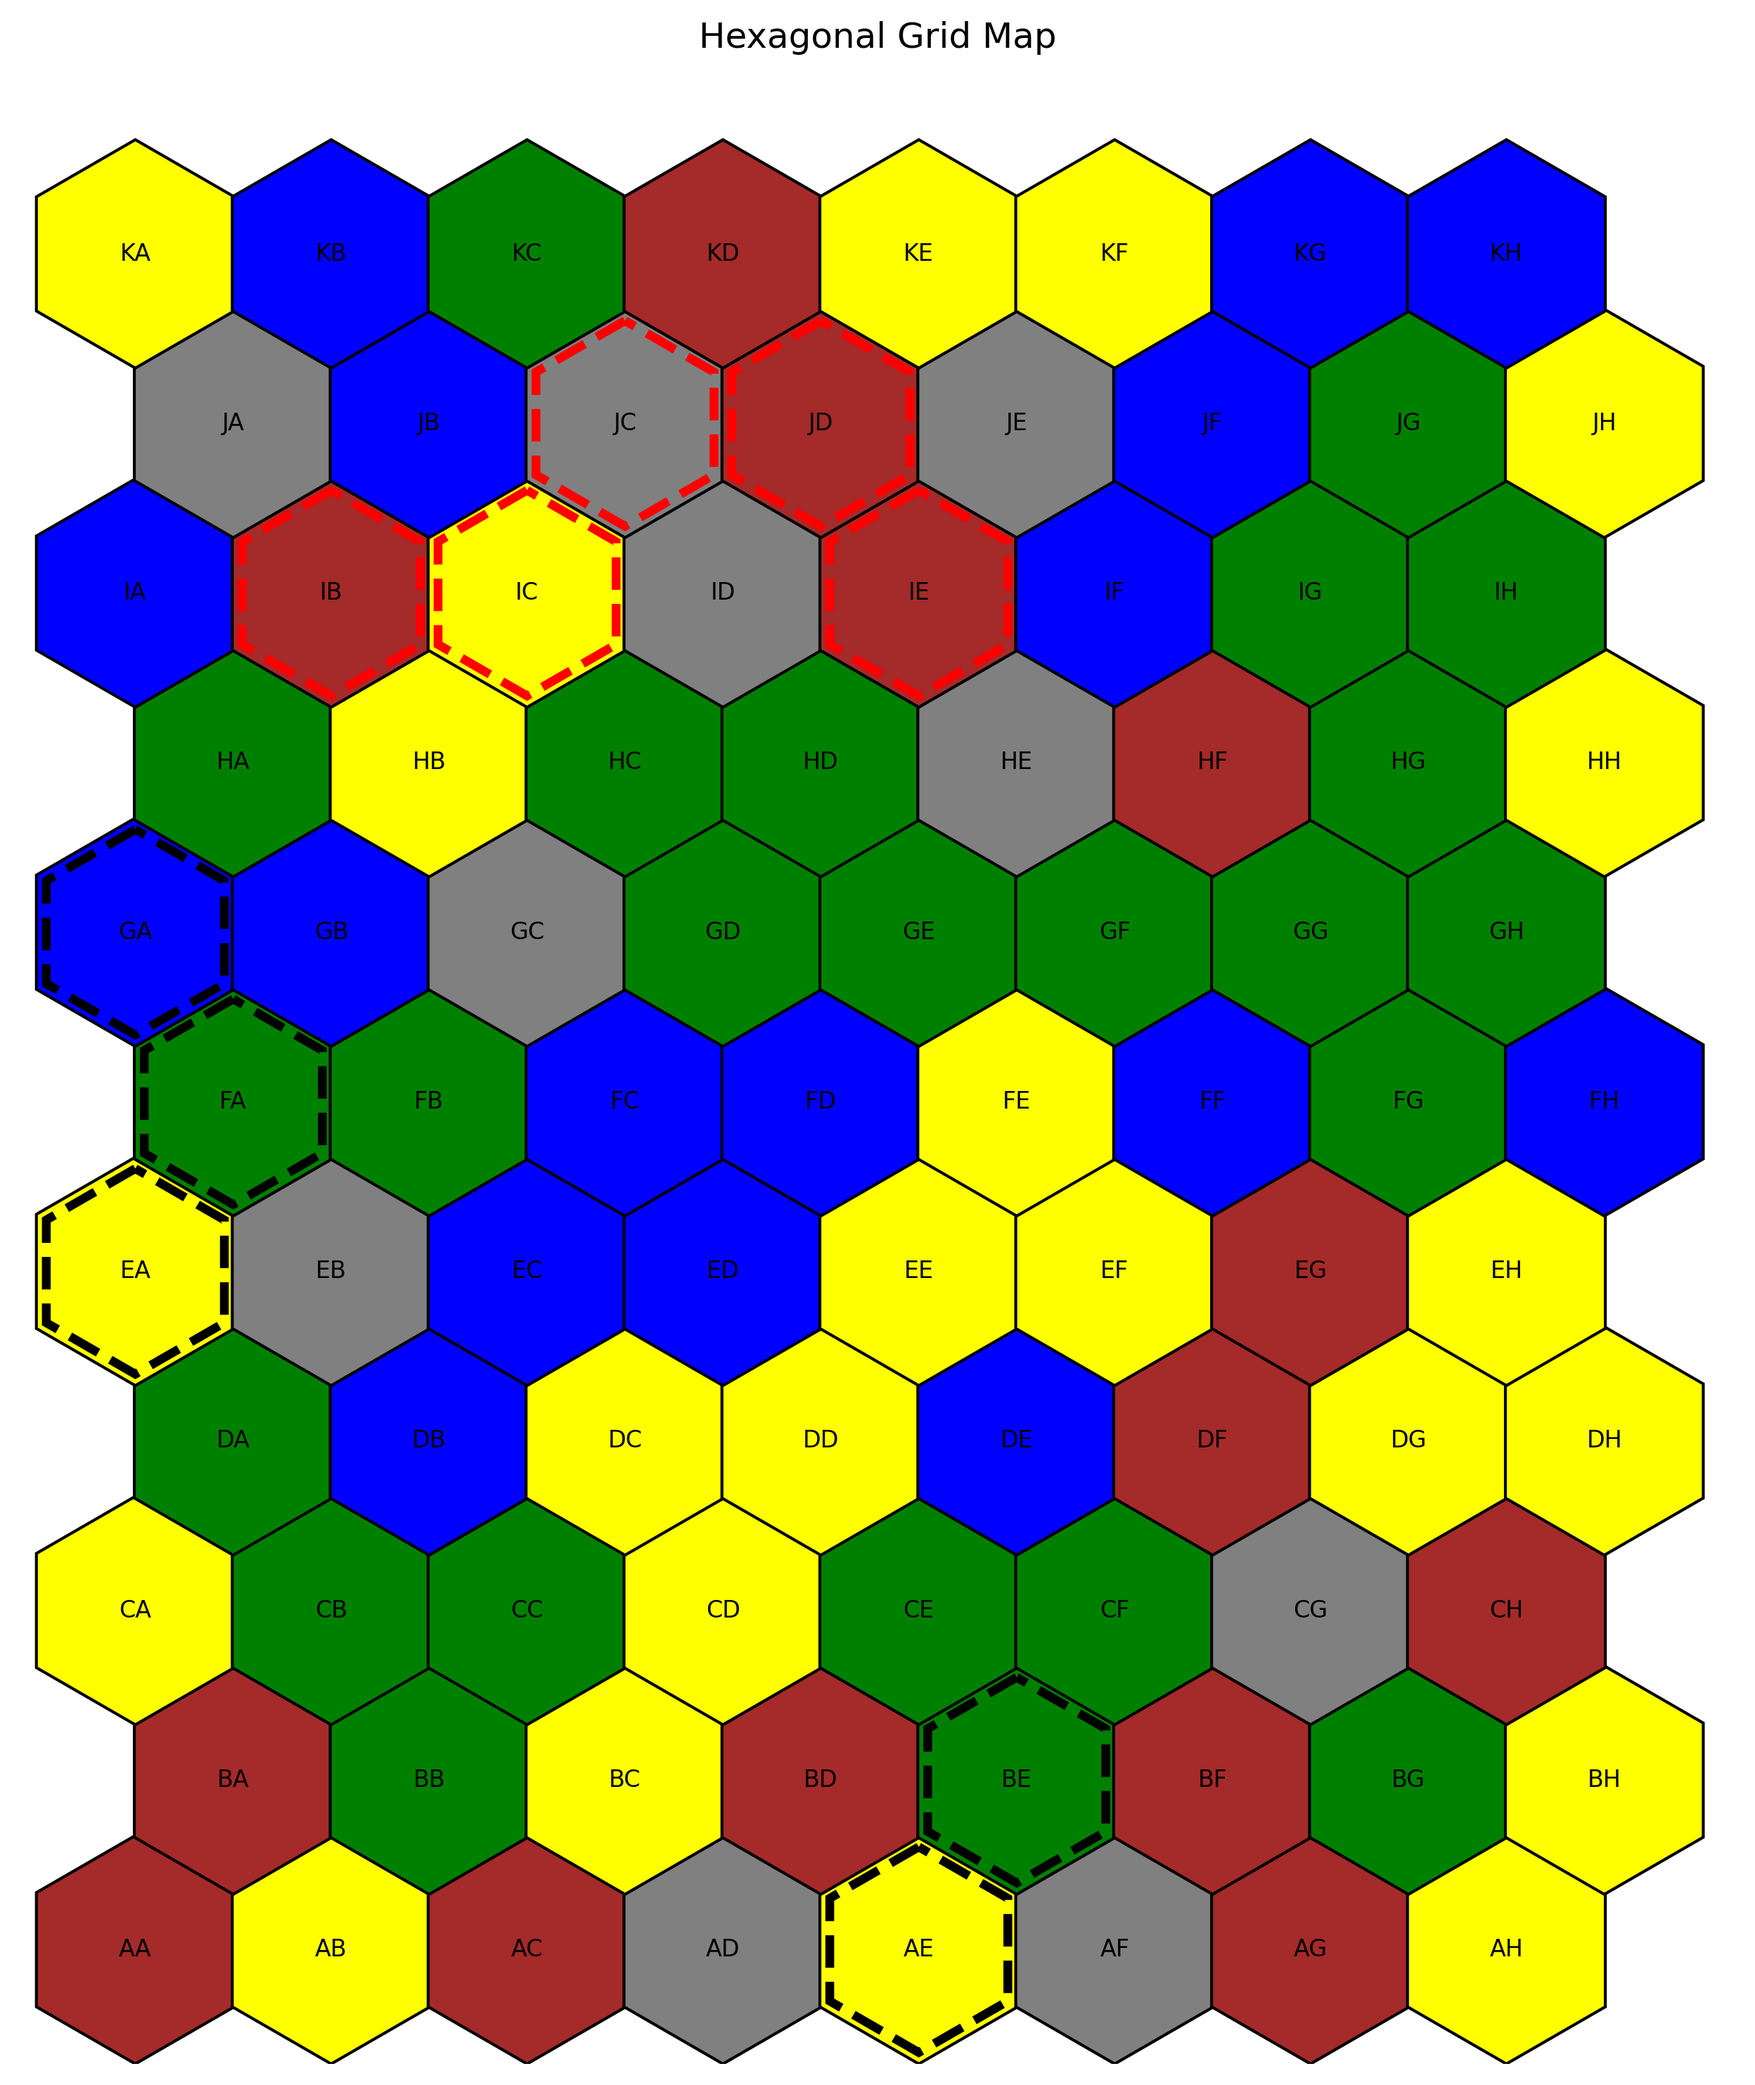
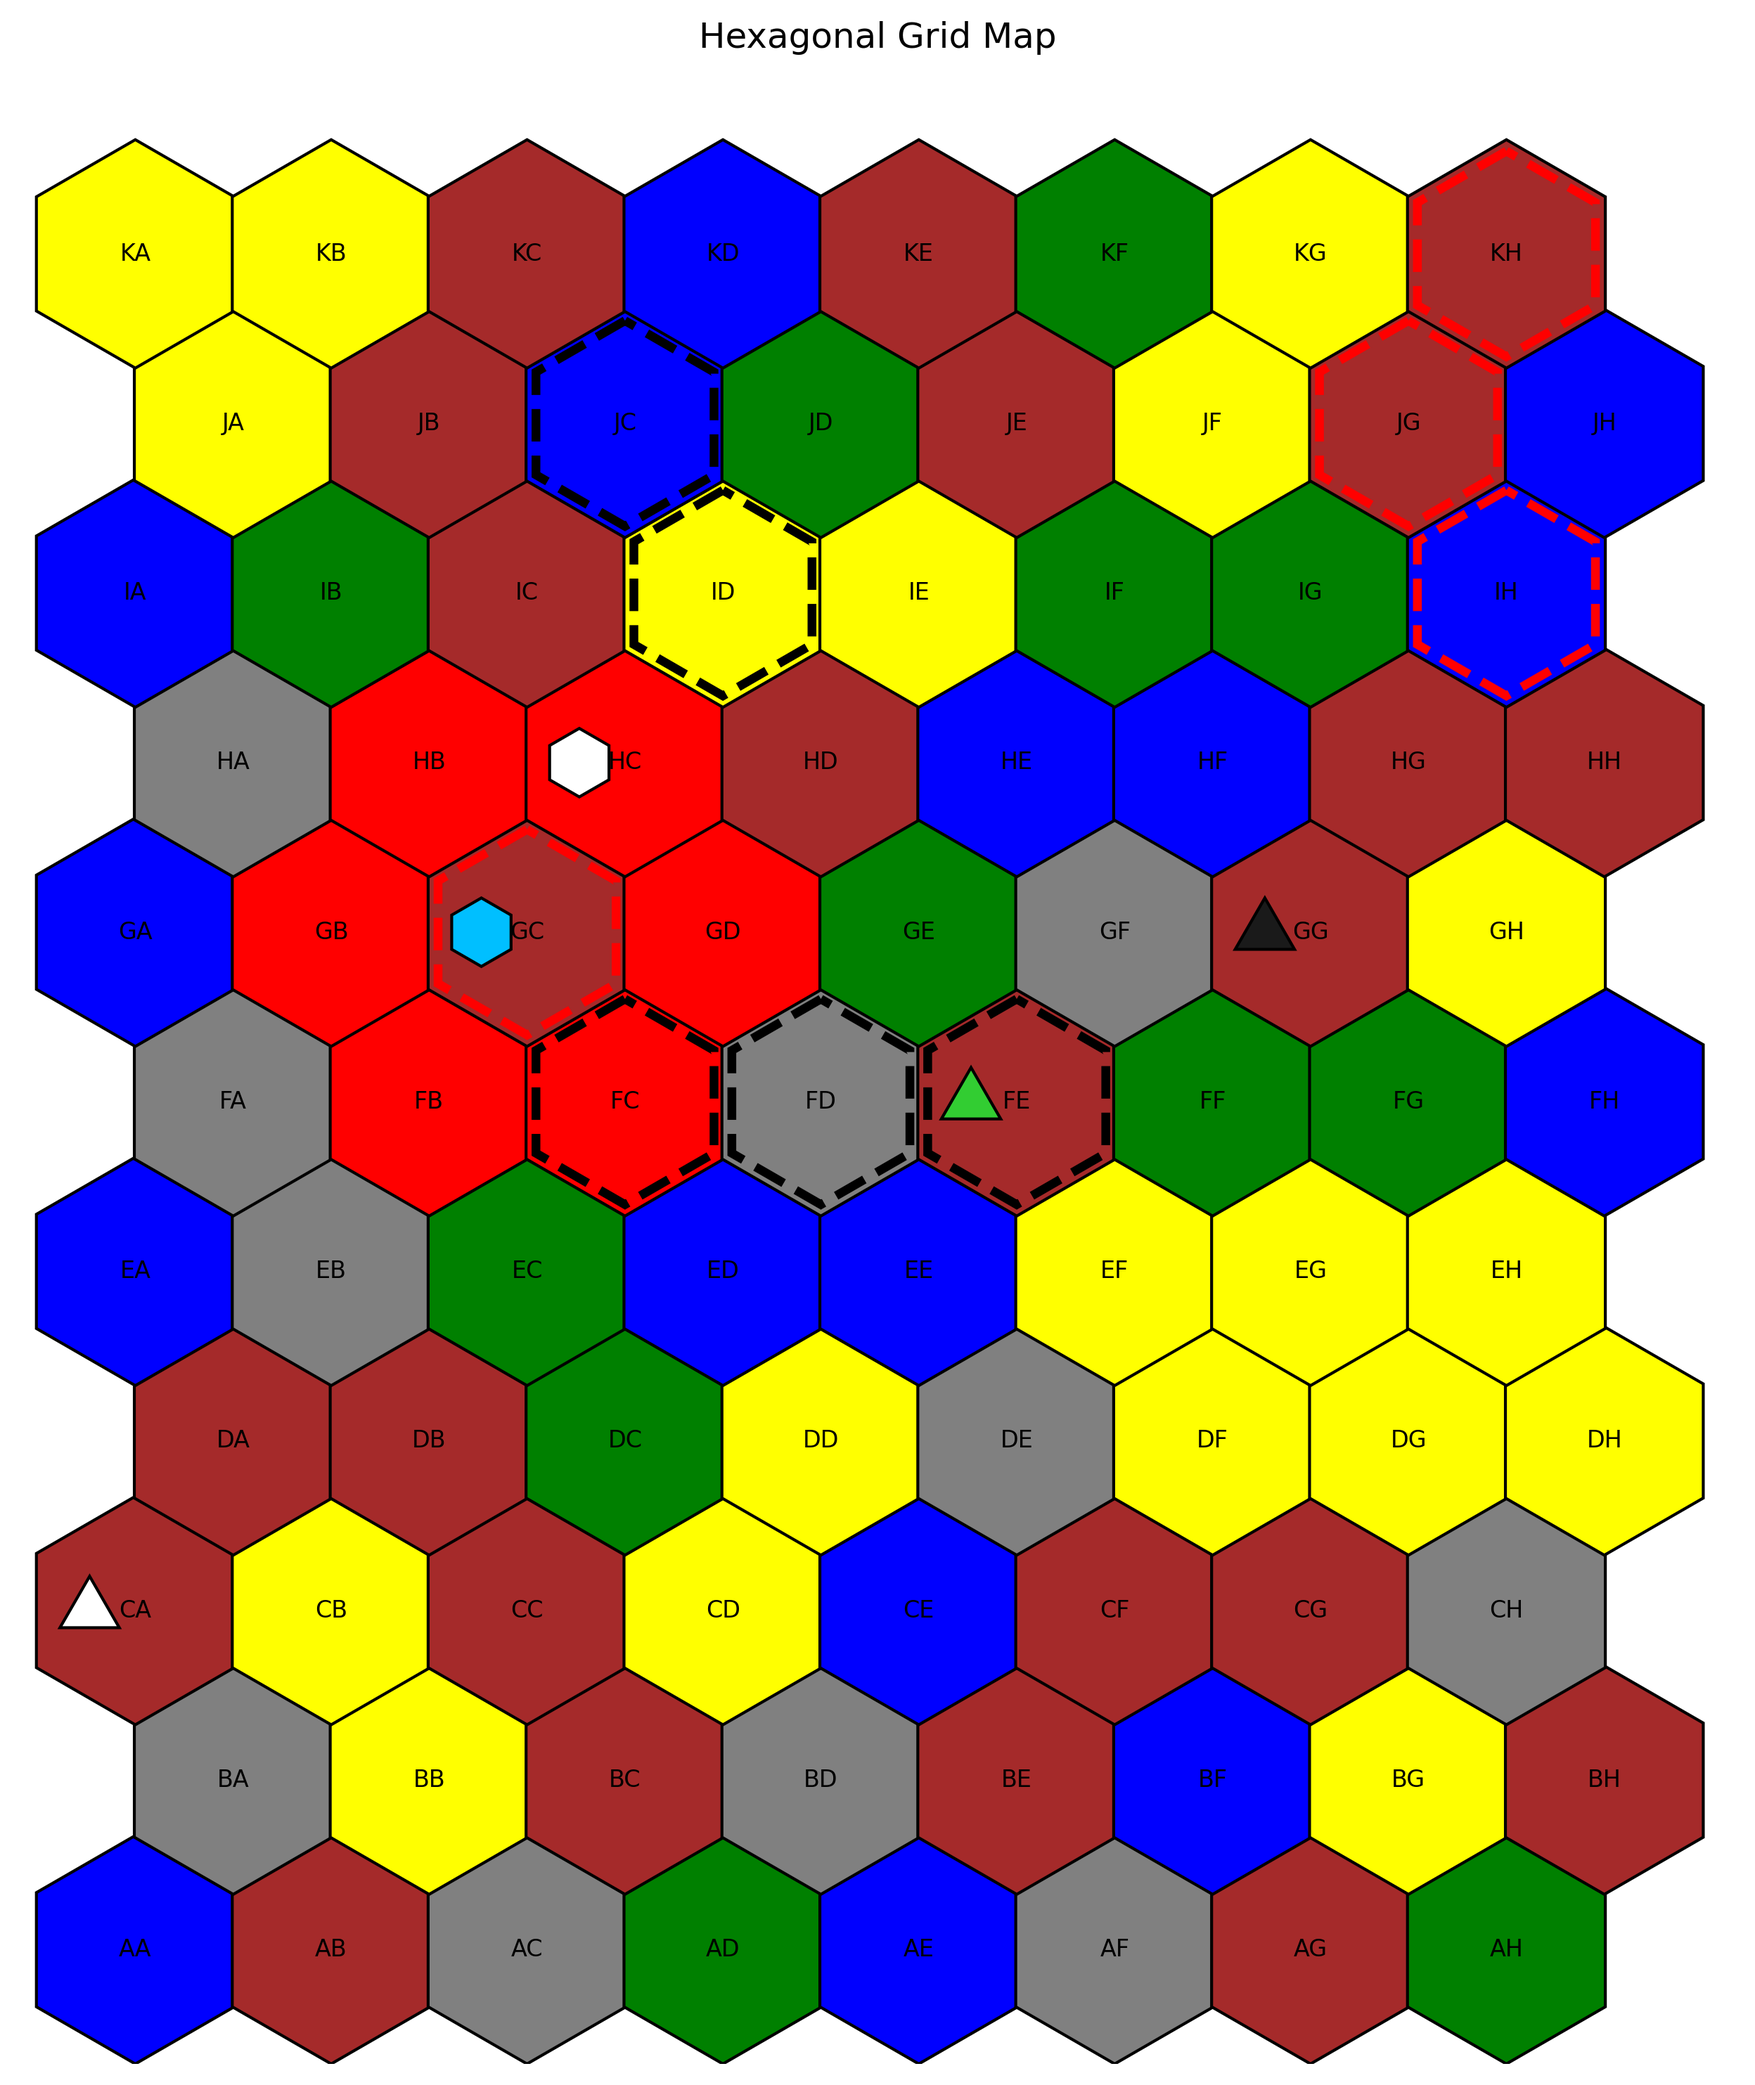
Lots of updates; added poetry to the devuser manually, added a visualize make target and phonys, and updated so that structures are now included

diff --git a/container/visualize_board.py b/container/visualize_board.py
@@ -1,15 +1,14 @@
-import networkx as nx
-from utils.graph_generate_landscape import (
-    generate_hexagonal_grid_graph, 
-)
-from utils.graph_generate_random_area import ( 
-    add_connected_area_attribute,
-)
-
 import matplotlib.pyplot as plt
-import seaborn as sns
+import networkx as nx
 import numpy as np
+import random
+import seaborn as sns
+
 from matplotlib.patches import RegularPolygon
+from utils.graph_generate_landscape import generate_hexagonal_grid_graph
+from utils.graph_generate_random_area import add_connected_area_attribute
+from utils.graph_utils import enrich_node_attributes
+
 
 def calculate_hex_coordinates(row, col, hex_size):
     """Calculate the x, y coordinates for a hexagon in the grid."""
@@ -71,33 +70,153 @@ def plot_hexagonal_grid(G, rows, cols):
         row, col = node
         x, y = calculate_hex_coordinates(row, col, hex_size)
         color = get_node_color(data, color_map)
-        
+
+        filterattr = 'neighbor_standing_stone_blue'
+        if data.get(filterattr):
+            print(f"Coloring node {node} red because: {filterattr}")
+            color = 'red'
+
         hex_patch = create_hex_patch(x, y, hex_size, color)
         ax.add_patch(hex_patch)
         
         if data.get('is_Bear') or data.get('is_Cougar'):
             inner_hex = create_inner_hex_patch(x, y, hex_size, data.get('is_Bear'))
             ax.add_patch(inner_hex)
-        
+        # Check for structures and add them to the plot
         add_node_id_text(ax, x, y, row, col)
+        structure_patch = add_structures_to_plot(ax, data, x, y, hex_size)
+        if structure_patch:
+            ax.add_patch(structure_patch)
 
     plt.title('Hexagonal Grid Map')
     plt.tight_layout()
     plt.savefig('hexagonal_grid_map.png', dpi=300, bbox_inches='tight')
     plt.close()
 
-if __name__ == "__main__":
-    # Generate an 11x8 hexagonal grid graph
-    rows, cols = 11, 8
+def add_structures_to_plot(ax, data, x, y, hex_size):
+    """Add structures (standing stones or abandoned shacks) to the plot."""
+    for structure in ['standing_stone', 'abandoned_shack']:
+        for color in ['blue', 'green', 'white', 'black']:
+            structure_key = f"{structure}_{color}"
+            if data.get(structure_key):
+                structure_patch = create_structure_patch(structure, x, y, hex_size, color)
+                ax.add_patch(structure_patch)
+                return  # Only one structure per tile
+
+def create_structure_patch(structure, x, y, hex_size, color):
+    """Create a patch for a structure (standing stone or abandoned shack)."""
+    print(f"Created a structure {structure} of color {color} at {x}, {y}")
+    # Displace the structure to the left of the node ID label
+    displaced_x = x - hex_size * 0.4  # Adjust this value as needed
+    color_map = {
+        'blue': '#00BFFF',    # Light Blue
+        'green': '#32CD32',   # Lime Green
+        'white': '#FFFFFF',   # White (unchanged)
+        'black': '#1A1A1A'    # Dark Grey (almost black)
+    }
+    color = color_map.get(color, color)  # Use mapped color if available, else use original
+    if structure == 'standing_stone':
+        return RegularPolygon((displaced_x, y), numVertices=6, radius=hex_size*0.3,
+                              orientation=0, facecolor=color, edgecolor='black')
+    else:  # abandoned_shack
+        return RegularPolygon((displaced_x, y), numVertices=3, radius=hex_size*0.3,
+                              orientation=0, facecolor=color, edgecolor='black')
+       
+
+
+def generate_structure_combinations():
+    structures = ['standing_stone', 'abandoned_shack']
+    colors = ['blue', 'green', 'white', 'black']
+    return [f"{s}_{c}" for s in structures for c in colors]
+
+def select_random_structures(all_structures, min_structures, max_structures):
+    num_structures = random.randint(min_structures, max_structures)
+    return random.sample(all_structures, num_structures)
+
+def find_empty_location(G, rows, cols, all_structures):
+    def try_location():
+        row = random.randint(0, rows - 1)
+        col = random.randint(0, cols - 1)
+        print(all_structures)
+        if not any(G.nodes[(row, col)].get(s, False) for s in all_structures):
+            return row, col
+        return None
+
+    result = try_location()
+    if result:
+        return result
+    else:
+        return find_empty_location(G, rows, cols, all_structures)
+
+def add_structure_to_graph(G, structure, location):
+    row, col = location
+    parts = structure.split('_')
+    color = parts.pop()
+    structure_type = '_'.join(parts)
+    G.nodes[(row, col)][structure] = True
+    G.nodes[(row, col)][structure_type] = True
+    G.nodes[(row, col)][color] = True
+
+def add_random_structures(G, rows, cols, min_structures=4, max_structures=6):
+    """
+    Add random structures to the hexagonal grid.
+    
+    Args:
+    G (networkx.Graph): The hexagonal grid graph.
+    rows (int): Number of rows in the grid.
+    cols (int): Number of columns in the grid.
+    min_structures (int): Minimum number of structures to add.
+    max_structures (int): Maximum number of structures to add.
+    """
+    all_structures = generate_structure_combinations()
+    # Initialize all structures to False for all nodes
+    for node in G.nodes:
+        for structure in all_structures:
+            G.nodes[node][structure] = False
+    selected_structures = select_random_structures(all_structures, min_structures, max_structures)
+    
+    print("Selected structures:", selected_structures)
+
+    for structure in selected_structures:
+        location = find_empty_location(G, rows, cols, all_structures)
+        add_structure_to_graph(G, structure, location)
+
+def generate_game_map(rows, cols):
+    print("Generating hexagonal grid graph...")
     G = generate_hexagonal_grid_graph(rows, cols)
 
+    print("Adding bear areas...")
     # Add bear areas
     add_connected_area_attribute(G, 'is_Bear', 2)
     add_connected_area_attribute(G, 'is_Bear', 3)
 
+    print("Adding cougar areas...")
     # Add cougar areas
     add_connected_area_attribute(G, 'is_Cougar', 2)
     add_connected_area_attribute(G, 'is_Cougar', 3)
+
+    print("Adding random structures to the board...")
+    # Add random structures to the board
+    add_random_structures(G, rows, cols)
+
+    print("Generating structure combinations...")
+    # Get all structure attributes
+    # Enrich node attributes for Bear and Cougar 
+    all_structures = generate_structure_combinations()
+    all_attrs = ['is_Bear', 'is_Cougar'] + all_structures
+
+    print("Enriching node attributes for all structures...")
+    # Enrich node attributes for all structures
+    
+    G = enrich_node_attributes(G)
+
+    return G
+if __name__ == "__main__":
+    # Generate an 11x8 hexagonal grid graph
+    rows, cols = 11, 8
+
+    # Generate the game map
+    G = generate_game_map(rows, cols)
 
     # Visualize the hexagonal grid 
     plot_hexagonal_grid(G, rows, cols)

diff --git a/container/utils/graph_utils.py b/container/utils/graph_utils.py
@@ -92,10 +92,12 @@ def enrich_node_attributes(graph: nx.Graph) -> nx.Graph:
     """
     # Identify boolean attributes
     boolean_attributes = set()
+    print("Now identifying boolean attributes")
     for node, attrs in graph.nodes(data=True):
         boolean_attributes.update(attr for attr, value in attrs.items() if isinstance(value, bool))
     
     # First level: neighbors
+    print("Now looping through first level: neighbors")
     for attr in boolean_attributes:
         nx.set_node_attributes(
             graph,
@@ -107,6 +109,7 @@ def enrich_node_attributes(graph: nx.Graph) -> nx.Graph:
         )
 
     # Second level: neighbors of neighbors
+    print("Now looping through second level: neighbors of neighbors")
     for attr in boolean_attributes:
         nx.set_node_attributes(
             graph,
@@ -117,6 +120,7 @@ def enrich_node_attributes(graph: nx.Graph) -> nx.Graph:
             )
         )
     # Third level: neighbors of neighbors
+    print("Now looping through third level: neighbors of neighbors of neighbors")
     for attr in boolean_attributes:
         nx.set_node_attributes(
             graph,
